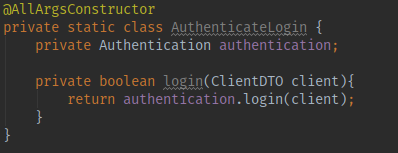
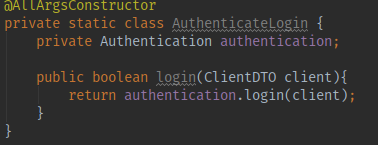
OCP

diff --git a/designPatterns/project/src/main/java/com/designPrinciples/O_OpenClosedPrinciple/O_OpenClosedPrincipleProblem.java b/designPatterns/project/src/main/java/com/designPrinciples/O_OpenClosedPrinciple/O_OpenClosedPrincipleProblem.java
@@ -13,7 +13,7 @@ public class O_OpenClosedPrincipleProblem {
     }
 
     private static class AuthenticateLogin{
-        private boolean login(ClientDTO client, String provider){
+        public boolean login(ClientDTO client, String provider){
             if(provider.equalsIgnoreCase("Google")){
                 //authenticate the login with OAuth
                 //If the information is correct return true, else false

diff --git a/designPatterns/project/src/main/java/com/designPrinciples/O_OpenClosedPrinciple/O_OpenClosedPrincipleSolution.java b/designPatterns/project/src/main/java/com/designPrinciples/O_OpenClosedPrinciple/O_OpenClosedPrincipleSolution.java
@@ -17,7 +17,7 @@ public class O_OpenClosedPrincipleSolution {
     private static class AuthenticateLogin {
         private Authentication authentication;
 
-        private boolean login(ClientDTO client){
+        public boolean login(ClientDTO client){
             return authentication.login(client);
         }
     }
